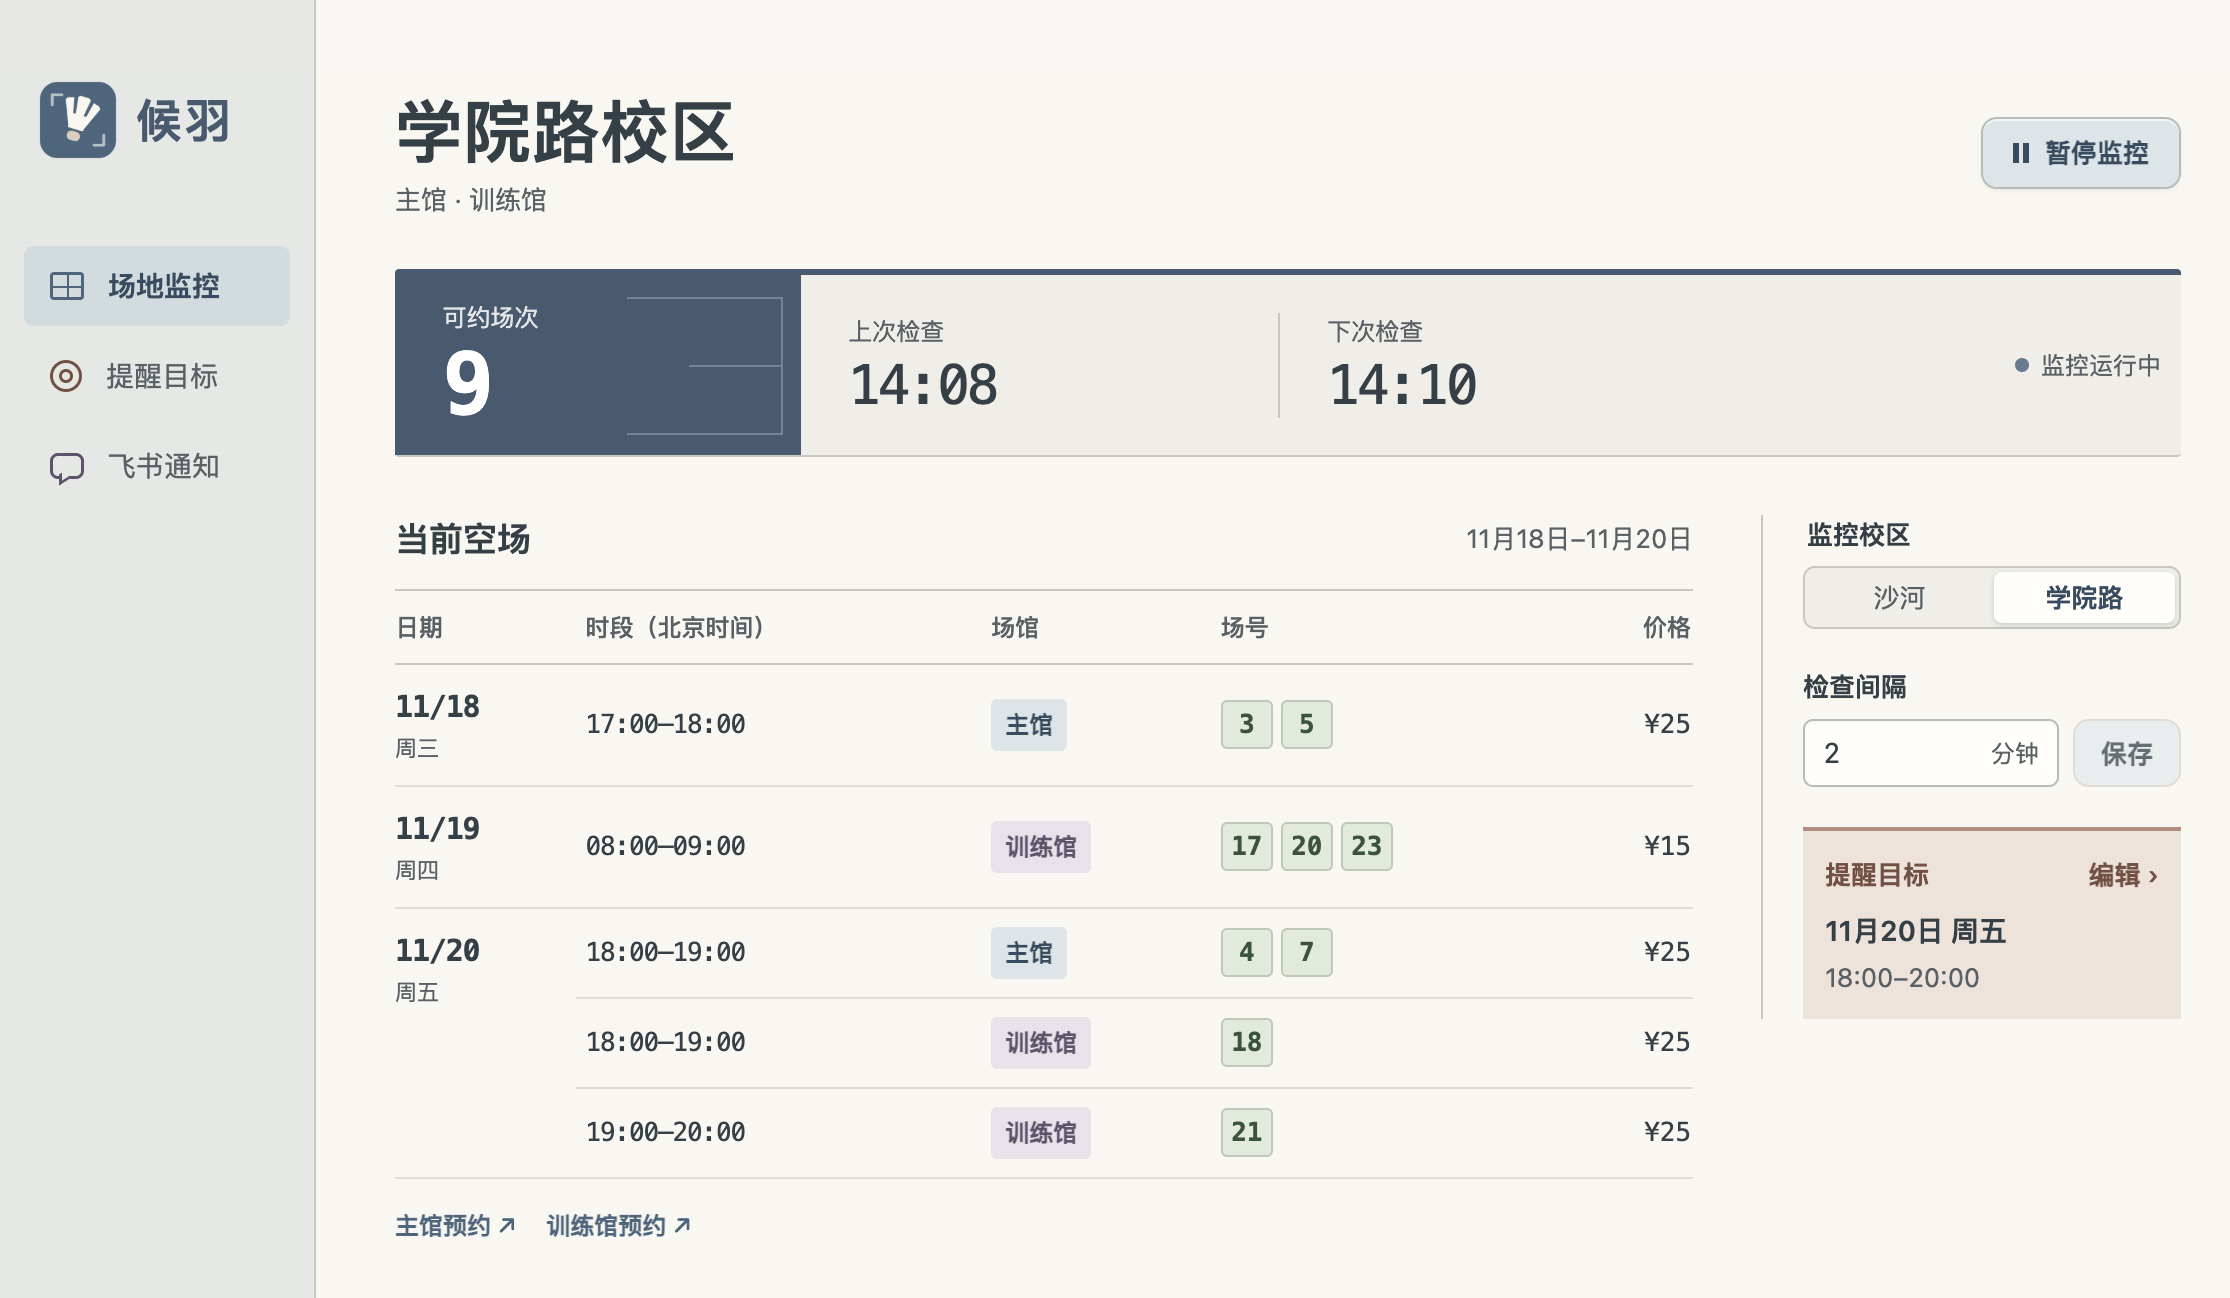
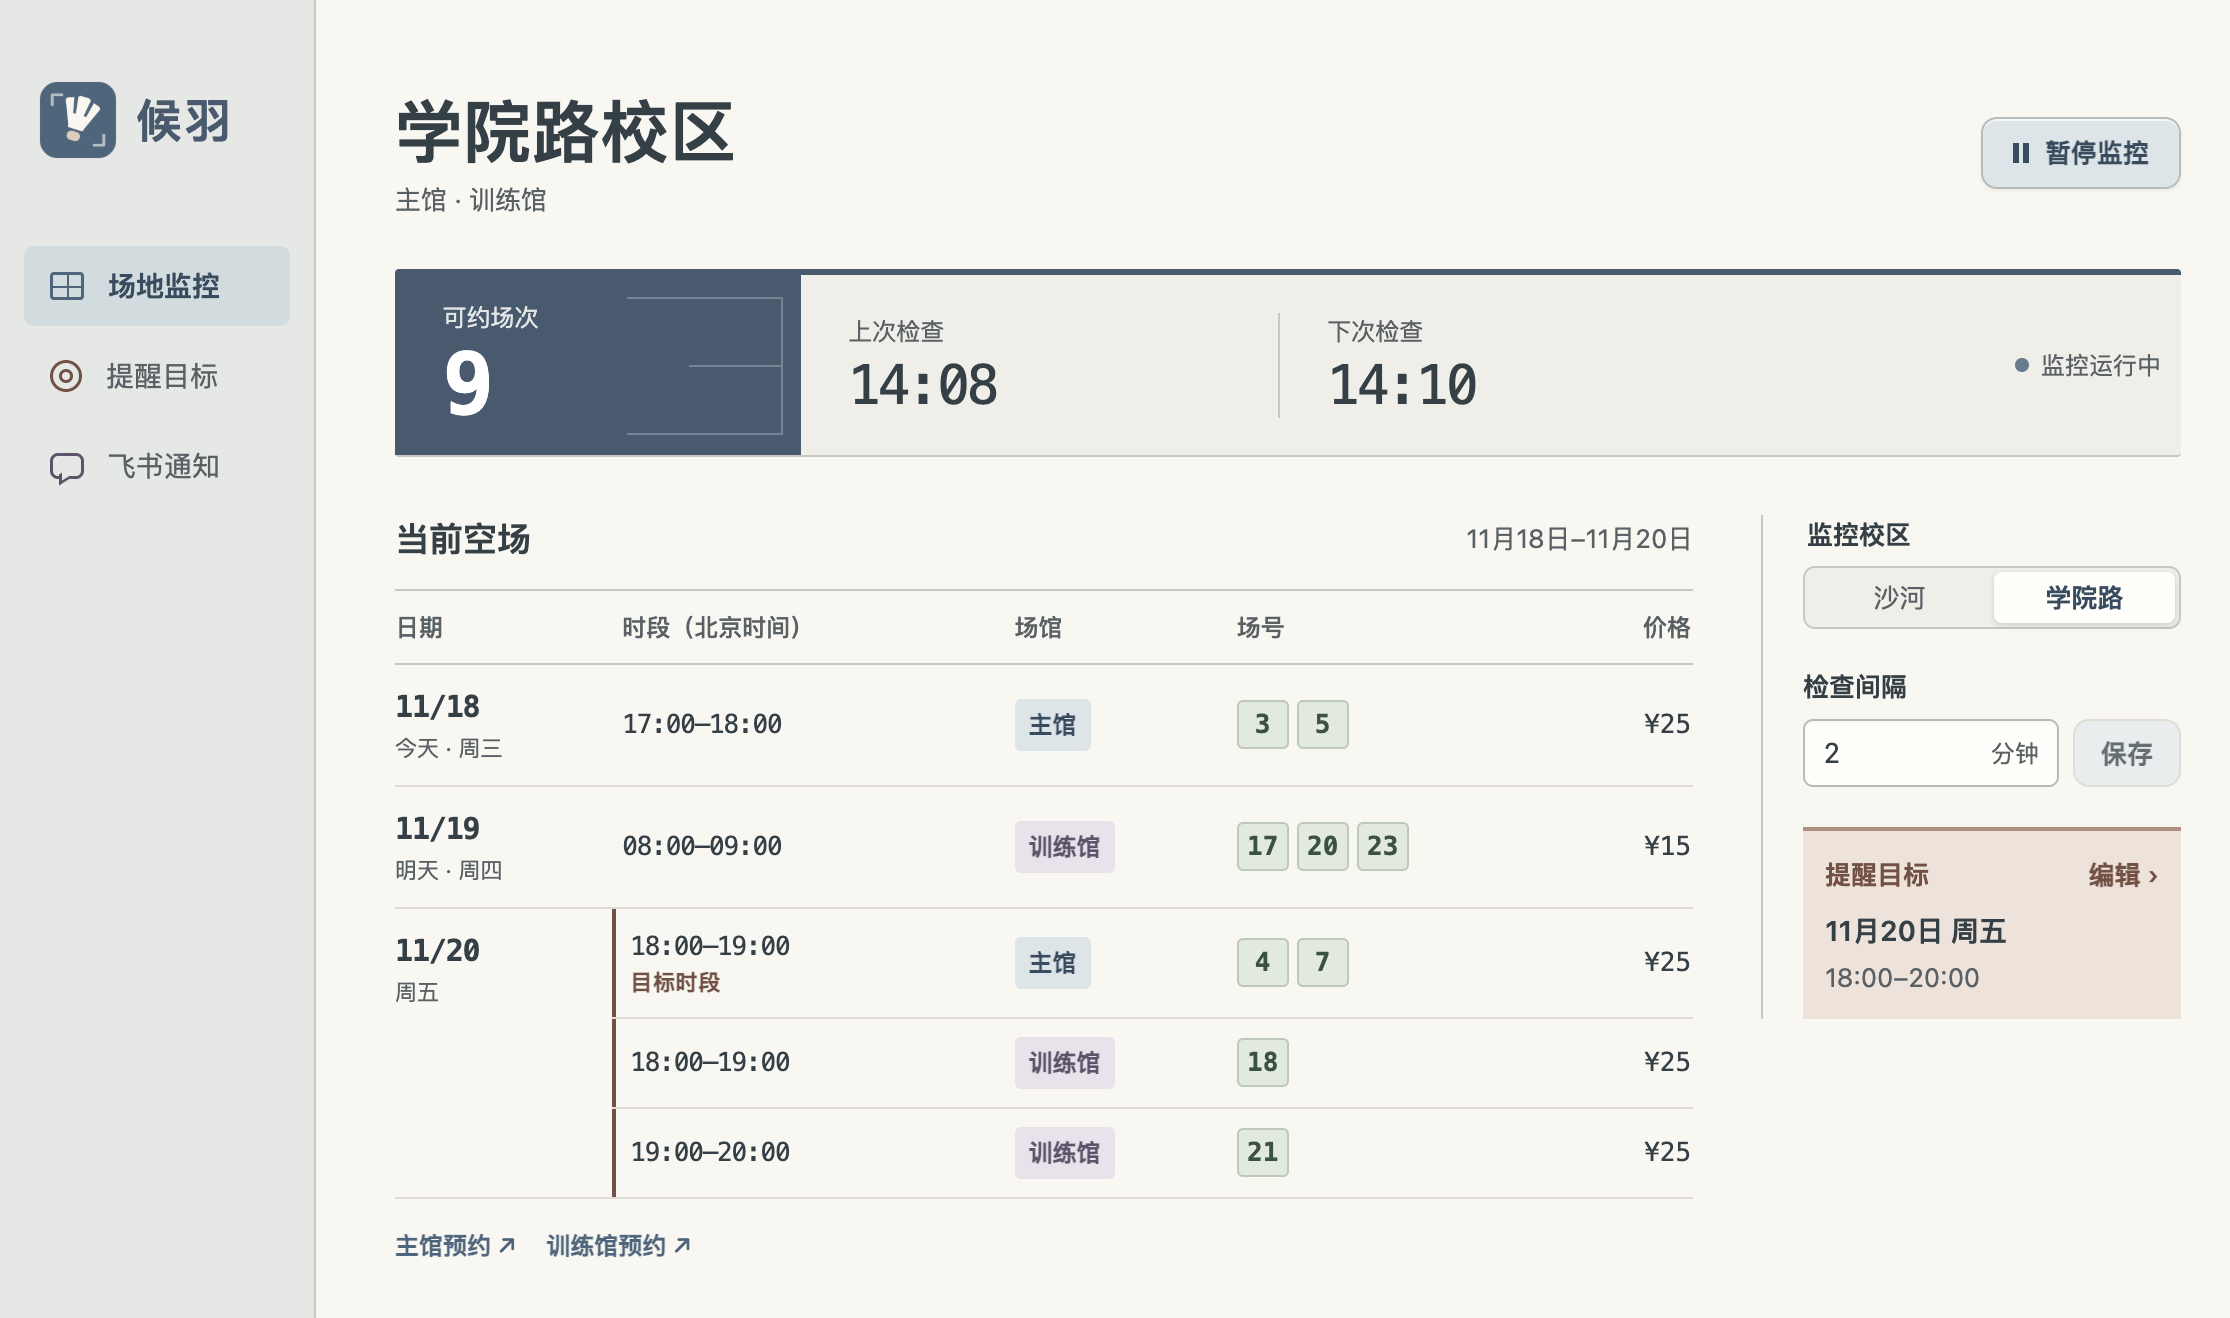
Make target hours legible in the timetable and support enlarged Chinese controls

diff --git a/src/ui/renderer.js b/src/ui/renderer.js
@@ -192,8 +192,10 @@ function renderBookingLinks(venues) {
   }));
 }
 
-function renderTable(rows, venues) {
-  const fingerprint = JSON.stringify(rows);
+function renderTable(rows, venues, now) {
+  const today = isoDay.format(now);
+  const tomorrow = isoDay.format(now + 86400000);
+  const fingerprint = JSON.stringify([today, rows]);
   if (fingerprint === renderedRows) return;
   renderedRows = fingerprint;
   const body = get('rows');
@@ -201,6 +203,7 @@ function renderTable(rows, venues) {
   body.replaceChildren();
   let restoreFocus;
   let dateCell;
+  let previousInTarget = false;
   for (const slot of rows) {
     const row = body.insertRow();
     if (dateCell?.dataset.date !== slot.date) {
@@ -213,13 +216,24 @@ function renderTable(rows, venues) {
       const day = document.createElement('strong');
       day.textContent = slot.date.slice(5).replace('-', '/');
       const week = document.createElement('small');
-      week.textContent = weekday.format(new Date(`${slot.date}T12:00:00+08:00`));
+      const relative = slot.date === today ? '今天' : slot.date === tomorrow ? '明天' : '';
+      const dayOfWeek = weekday.format(new Date(`${slot.date}T12:00:00+08:00`));
+      week.textContent = [relative, dayOfWeek].filter(Boolean).join(' · ');
       dateCell.append(day, week);
       row.append(dateCell);
     } else {
       dateCell.rowSpan++;
     }
-    appendCell(row, `${slot.start}–${slot.end}`).className = 'slot-time';
+    const timeCell = appendCell(row, `${slot.start}–${slot.end}`);
+    timeCell.className = 'slot-time';
+    if (slot.inTarget) {
+      row.classList.add('in-target');
+      const label = document.createElement('small');
+      label.className = previousInTarget ? 'sr-only' : 'target-caption';
+      label.textContent = '目标时段';
+      timeCell.append(label);
+    }
+    previousInTarget = Boolean(slot.inTarget);
     const venue = venues.find(item => item.id === slot.venue);
     const link = document.createElement('button');
     link.type = 'button';
@@ -308,7 +322,7 @@ function render() {
   text('scope', range);
   get('read-error').hidden = !errors.length;
   text('read-error', errors.map(venue => `${venueName(venue)} · ${venue.error}`).join('\n'));
-  renderTable(rows, venues);
+  renderTable(rows, venues, now);
   get('empty').hidden = rows.length > 0;
   get('table-wrap').hidden = rows.length === 0;
   if (!rows.length) {

diff --git a/src/ui/styles.css b/src/ui/styles.css
@@ -153,6 +153,8 @@ tbody .new-day > *, .date-cell { border-top: 1px solid var(--line); }
 .date-cell small { font-weight: 450; color: var(--muted); font-size: 11px; }
 .slot-time, .price { font-family: var(--numeric); font-size: 13px; white-space: nowrap; }
 .slot-time { letter-spacing: -.045em; }
+.in-target .slot-time { padding-left: 9px; box-shadow: inset 2px 0 var(--clay-ink); }
+.target-caption { display: block; width: fit-content; color: var(--clay-ink); font: 550 11px/1.5 system-ui, sans-serif; letter-spacing: .03em; }
 .venue-link { min-height: 26px; white-space: nowrap; font-size: 12px; line-height: 1.45; padding: 2px 7px; border-radius: 3px; }
 .venue-link[data-venue="38"] { color: var(--selected-ink); background: var(--blue-paper); }
 .venue-link[data-venue="39"] { color: var(--plum-ink); background: var(--plum-paper); }
@@ -246,5 +248,24 @@ input::placeholder { color: var(--muted); }
 }
 @media (forced-colors: active) {
   .court-number, .venue-link, .choice input:checked + span { border: 1px solid CanvasText; }
+  .in-target .slot-time { border-inline-start: 2px solid CanvasText; }
   :focus-visible, .choice input:focus-visible + span { outline: 2px solid Highlight; }
+}
+@media (max-width: 620px) {
+  .shell { grid-template: var(--bar-height) auto minmax(0, 1fr) / minmax(0, 1fr); }
+  .window-bar { background: var(--rail); }
+  .rail { grid-area: 2 / 1; display: grid; grid-template-columns: 1fr auto; align-items: center; gap: 7px; padding: 5px 12px 9px; border: 0; border-bottom: 1px solid var(--line); }
+  .brand { margin: 0; gap: 5px; }
+  .rail-foot { grid-area: 1 / 2; margin: 0; }
+  .court-plan { display: none; }
+  .account { border: 0; padding: 0; gap: 8px; }
+  .navigation { grid-column: 1 / -1; display: flex; flex-wrap: wrap; gap: 3px; }
+  .nav { flex: 1 1 auto; width: auto; justify-content: center; min-height: 32px; }
+  .workspace { grid-area: 3 / 1; padding: 13px 12px 24px; }
+  .page-head { margin-bottom: 12px; min-height: 44px; }
+  .inspector { grid-template-columns: minmax(0, 1fr); gap: 12px; }
+  .metrics > div { padding-inline: 8px; }
+  .metrics dd { font-size: 19px; }
+  .metrics .score dd { font-size: 30px; }
+  .scoreboard .status { margin-left: 8px; }
 }

diff --git a/docs/guide.md b/docs/guide.md
@@ -25,7 +25,7 @@
 - 时间按北京时间计算。选择 18:00–20:00，可收到 18:00–19:00 或 19:00–20:00 的退订。场次必须完整落在这个范围内。
 - 沙河和学院路各自保留一个目标。监控只查询当前选中的校区，运行中可以修改目标。
 - 目标到期后该校区静默。编辑成新日期可继续等场，点「移除目标」可重新接收该校区的所有退订。升级前未设置目标的用户仍接收该校区全部退订。
-- 飞书目标卡片逐项列出本轮符合条件并重新变绿的场次。场次较多时分多张发送。首页空场表保留所选校区全部可约场次，更改目标时不会补发原本已绿的空场。
+- 飞书按日期、时段、场馆和场号列出符合目标的退订。首页保留整个校区的空场，用「目标时段」和陶土色竖线标出提醒范围。更改目标时，已有空场只更新显示。
 
 ![提醒目标设置（示例数据）](target.png)
 
@@ -61,7 +61,7 @@ npx electron test/desktop-smoke.cjs ./qa/preview
 
 项目使用 Electron 45.3.4。安装和构建所需的 Electron 来自其官方发布。[Electron 发行说明](https://releases.electronjs.org/release/v45.3.4)
 
-`scripts/package.py` 接受平台、官方运行时目录、临时目录和输出 ZIP 路径。运行时目录应包含对应 Electron ZIP 与官方 `SHASUMS256.txt`。Mac 打包使用 `ditto`、`sips` 和 `codesign`。Windows x64 包使用 Python 3 和已安装的 Node.js 打包依赖。Linux DEB 在 Ubuntu 上用 `unzip` 与 `dpkg-deb` 构建，安装时使用官方 Chromium 沙箱。
+`scripts/package.py` 接受平台、官方运行时目录、临时目录和输出文件路径。运行时目录应包含对应 Electron ZIP 与官方 `SHASUMS256.txt`。Mac 打包使用 `ditto`、`sips` 和 `codesign`。Windows x64 包使用 Python 3 和已安装的 Node.js 打包依赖。Linux DEB 在 Ubuntu 上用 `unzip` 与 `dpkg-deb` 构建，安装时使用官方 Chromium 沙箱。
 
 ```sh
 python3 scripts/package.py darwin-arm64 ./runtime ./staging ./Houyu-macOS-arm64.zip

diff --git a/README.md b/README.md
@@ -32,7 +32,7 @@
 
 ### 3. 只等想打的时段（可选）
 
-在 **提醒目标** 选好日期和起止时间，点 **保存目标**。例如学院路 18:00–20:00，主馆和训练馆在范围内的所有退订场次都会纳入提醒。移除目标后，恢复这个校区所有时段的退订提醒。
+在 **提醒目标** 选好日期和起止时间，点 **保存目标**。例如选学院路 18:00–20:00，主馆和训练馆完整落在这个范围内的场次都会纳入提醒。空场表用「目标时段」标出对应行。移除目标可恢复该校区全部退订提醒。
 
 <img src="docs/target.png" width="690" alt="学院路 18:00 到 20:00 的目标，覆盖主馆和训练馆全部场号">
 
